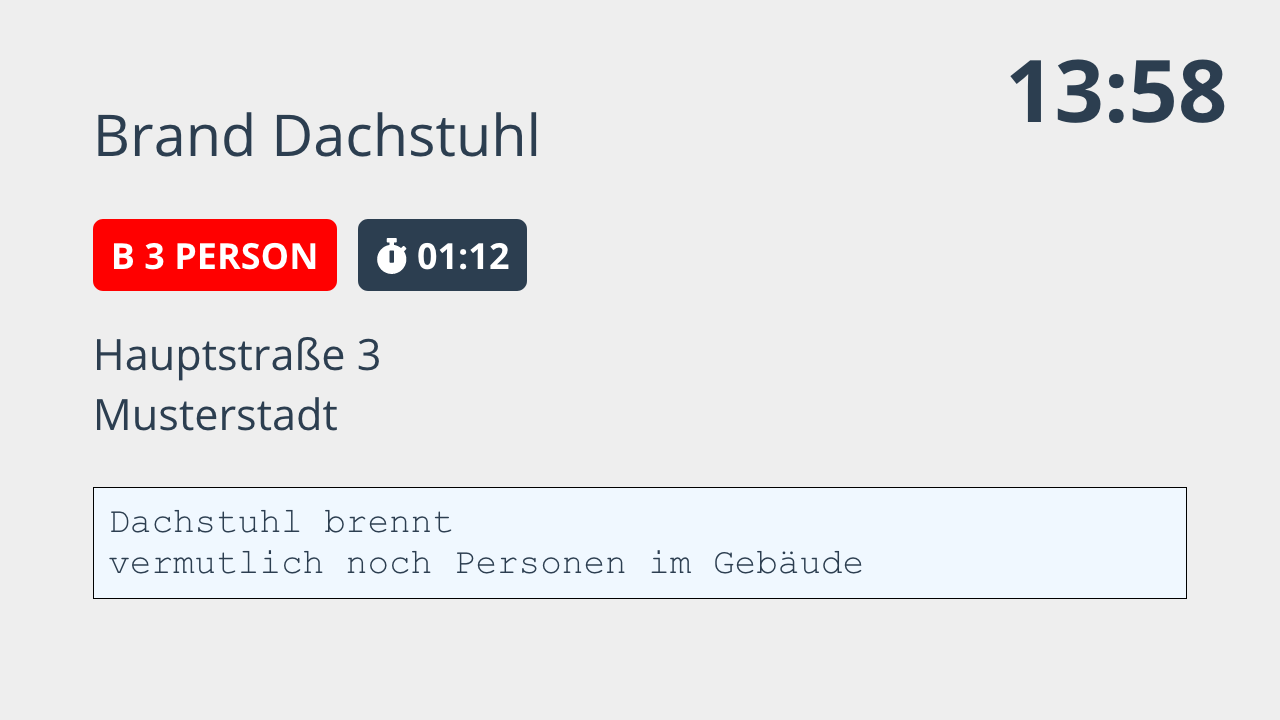
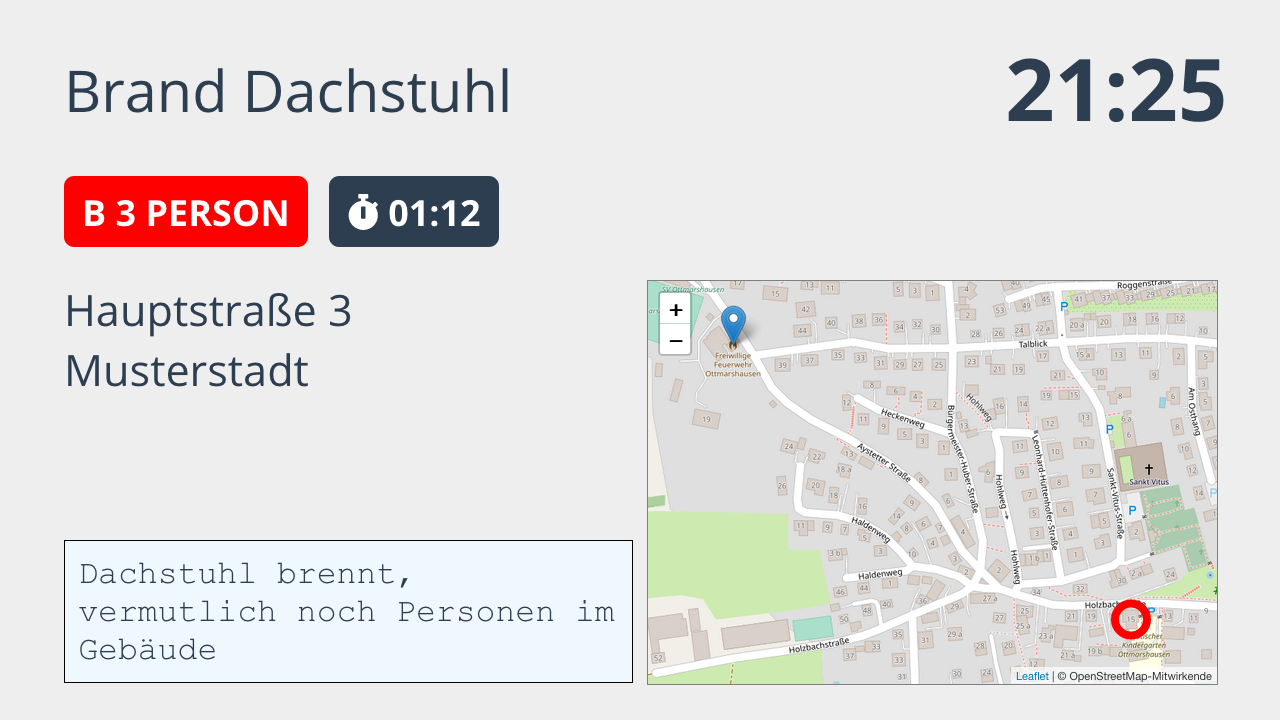
Update alert screen docs

diff --git a/docs/de/20_Anzeige/15_Ansichten_einrichten.md b/docs/de/20_Anzeige/15_Ansichten_einrichten.md
@@ -35,7 +35,13 @@ Enthalten sind:
 - Stichwort
 - Verstrichene Zeit
 - Adresse
+- Karte des Einsatzortes
 - Freitext
 - Aktuelle Uhrzeit
 
 ![](alert-screen.png)
+
+Die Karte wird angezeigt, sobald Koordinaten in den Einsatzdaten enthalten sind.
+In der Console kann unter _Einstellungen_ die Position der Wache eingetragen werden, um diese mit auf der Karte anzuzeigen.
+
+Wenn das Display als Tablet konfiguriert ist, wird anstelle der Karte ein Knopf angezeigt, mit dem die Koordinaten in eine Navigations- oder Karten-App übernommen werden können.
